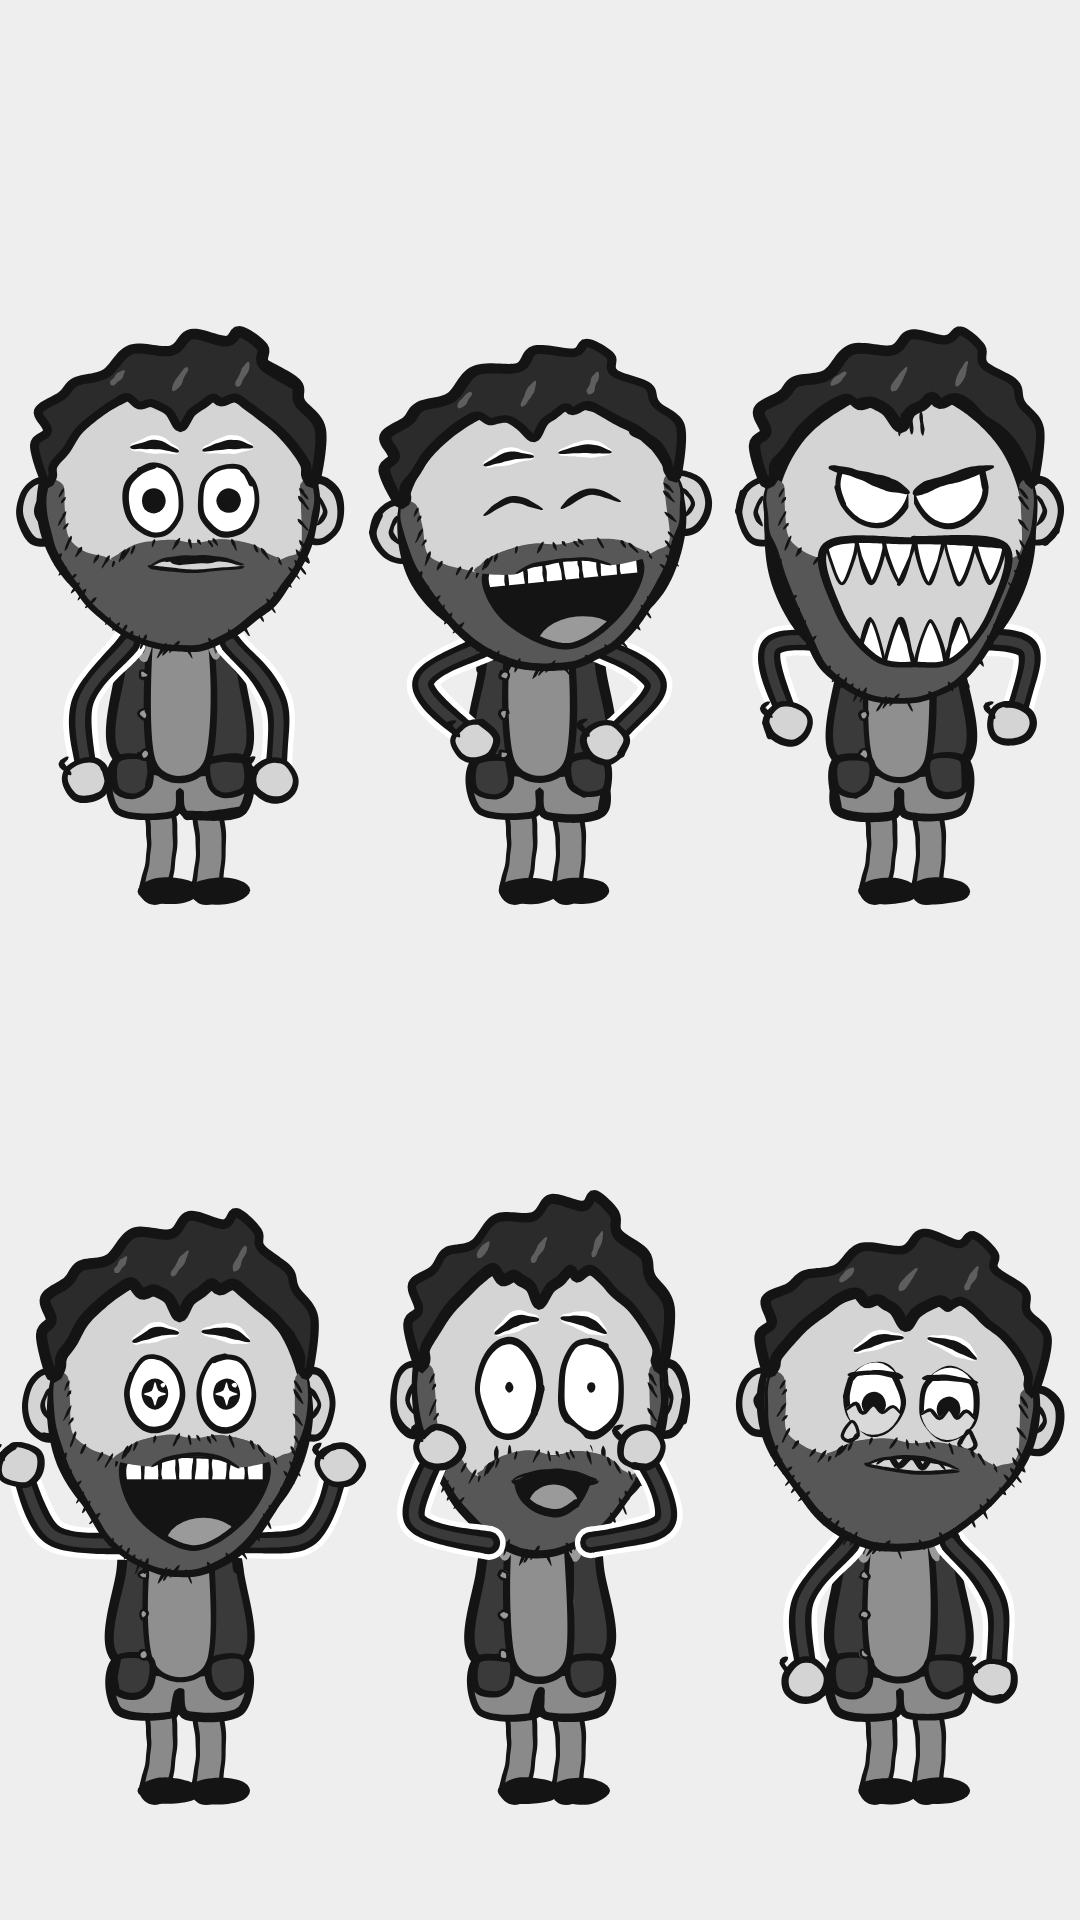
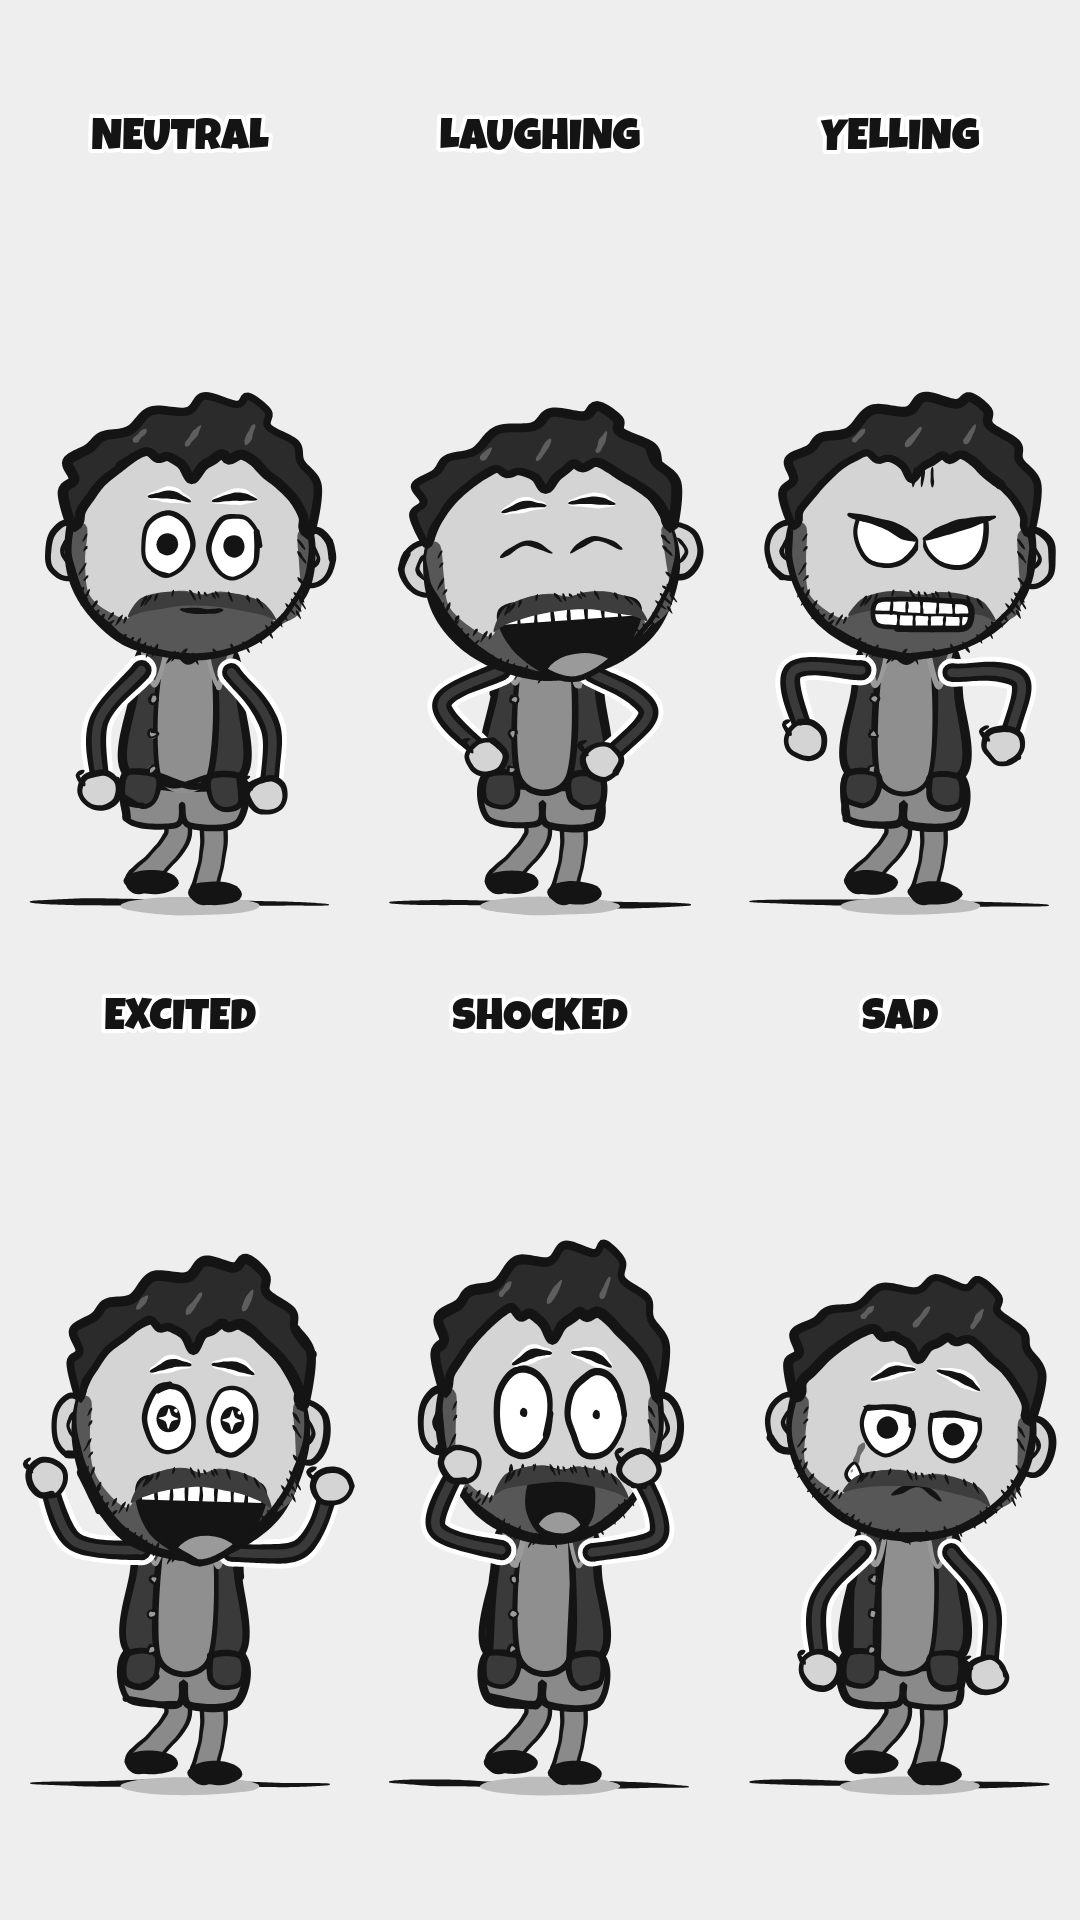
Squeex beard 2: smaller beard, moustache band, new neutral, angry and sad
Beard back on the original chin line with bare cheek under the eyes; a
darker moustache band over the upper lip, joined at the corners; his
mouth sits a little lower under it (head mouthDy, unused by anyone else).
Squeex's own angry (squared clenched teeth, head keeps its shape) and sad
(skin-tone drooping lids, one tear, a frown). Adds ?skit=squeex_beard2.

Claude-Session: https://claude.ai/code/session_01RKmGcx8q1V1rbfKyx6bNrn

diff --git a/web/cameos.js b/web/cameos.js
@@ -51,7 +51,7 @@ const Cameos = (() => {
   }
 
   // ---------- head ----------
-  // o: skin back hair beard browW front(ctx, fx) hat eyeLop
+  // o: skin back hair beard browW front(ctx, fx) hat eyeLop mouthDy (moves the mouth down, e.g. under a moustache)
   function head(o) {
     return (ctx, p) => {
       const fx = p.face ?? 12;
@@ -79,8 +79,9 @@ const Cameos = (() => {
       if (p.squint) {   // rage: the brow is the eye's top edge; add stress lines between the brows
         for (const dx of [-10, 0, 10]) stroke(ctx, [[fx + dx, -106], [fx + dx * 1.2, -80]], { w: 4, taper0: 0.3, taper1: 0.3 });
       } else brows(ctx, fx, -62, p, 1, o.browW ?? 9, true);
-      if (rage) mouth(ctx, fx + 4, 34 + jaw * 0.2, p, 0.95);   // fills the lower half of the face
-      else mouth(ctx, fx + 4, 62 - 18 * open + jaw * 0.5, p, (open ? 0.85 : 1) * (p.mouthScale ?? 1));
+      const mdy = (o.mouthDy ?? 0) * (1 - open);   // eases off as a yell opens, so a big mouth stays inside the chin
+      if (rage) mouth(ctx, fx + 4, 34 + mdy + jaw * 0.2, p, 0.95);   // fills the lower half of the face
+      else mouth(ctx, fx + 4, 62 + mdy - 18 * open + jaw * 0.5, p, (open ? 0.85 : 1) * (p.mouthScale ?? 1));
       o.front?.(ctx, fx, rage, p);
       o.hat?.(ctx);
       if (p.sweat) { sweat(ctx, -126, -30); sweat(ctx, 150, -60, 0.8); }
@@ -1314,23 +1315,30 @@ const Cameos = (() => {
   // moustache corners, the moustache on the upper lip, a rounded full chin.
   // Ink only at the edges (short strokes along the cheek line and the bottom),
   // a flat fill inside. It stretches with the jaw; the mouth cuts into it.
-  const FULLB = '#575757';
-  // on a shocked gape the eyes are huge, so the moustache and lip sit a little lower
-  const fullDrop = p => p?.mouth === 'gape' ? 20 * (p.open ?? 0) / RY : 0;
+  const FULLB = '#575757', STACHE = '#3d3d3d';
+  // mouths the moustache goes under rather than over: his wide grin should show whole
+  const STACHE_UNDER = new Set(['grinwide']);
+  const drawStache = (ctx, P, { stacheTop, lip }) => {
+    fill(ctx, P([...stacheTop, ...lip]), STACHE, 1);   // set apart from the beard by tone; the mouth itself is the lip line
+    hairEdge(ctx, P(stacheTop.slice(1, -1)), 780, { len: 11 });
+  };
+  // on a shocked gape the eyes are huge, so the moustache sits a little lower
+  const FULL_MOUTH_DY = 14;   // his mouth sits a little lower, under the moustache, leaving bare cheek under the eyes
+  const fullDrop = () => 0.12;
   const fullParts = d => {
     const outer = [];
-    for (let i = 0; i <= 24; i++) {   // jaw edge, from the top of one sideburn to the other, round and a little fuller at the chin
-      const a = Math.PI * (-0.07 + 1.14 * i / 24), dn = Math.max(0, Math.sin(a));
-      outer.push([Math.cos(a) * 0.99, Math.sin(a) * 0.99 + 0.2 * dn * dn * dn]);
+    for (let i = 0; i <= 24; i++) {   // jaw edge on the head outline, from the top of one sideburn to the other
+      const a = Math.PI * (-0.07 + 1.14 * i / 24);
+      outer.push([Math.cos(a) * 0.99, Math.sin(a) * 0.99]);
     }
-    // cheek lines: down the sideburn in front of the ear, then a clean slope to the moustache corner
-    const cheekL = [[-0.86, -0.18], [-0.84, 0.02], [-0.82, 0.26], [-0.7, 0.38], [-0.56, 0.43 + d], [-0.46, 0.46 + d]];
-    const stache = [[-0.44, 0.4], [-0.3, 0.32], [-0.08, 0.28], [0.11, 0.31], [0.3, 0.28], [0.52, 0.32], [0.64, 0.4]].map(([x, y]) => [x, y + d]);
-    const cheekR = [[0.68, 0.46 + d], [0.78, 0.43 + d], [0.88, 0.36], [0.88, 0.02], [0.88, -0.18]];
-    // the upper lip line, and the lower lip showing under it (the mouth draws over both)
-    const lipTop = [[-0.22, 0.5], [-0.1, 0.45], [0.11, 0.43], [0.32, 0.45], [0.46, 0.5]].map(([x, y]) => [x, y + d]);   // rounded corners
-    const lip = [...lipTop, ...[[0.3, 0.53], [0.11, 0.55], [-0.08, 0.53]].map(([x, y]) => [x, y + d])];
-    return { outer, cheekL, stache, cheekR, lipTop, lip };
+    // cheek lines: down the sideburn in front of the ear, then low across the cheek
+    // to the moustache corner, leaving bare cheek under the eyes
+    const cheekL = [[-0.86, -0.18], [-0.86, 0.12], [-0.84, 0.4], [-0.74, 0.54], [-0.58, 0.53 + d], [-0.5, 0.54 + d]];
+    const cheekR = [[0.72, 0.54 + d], [0.8, 0.53 + d], [0.92, 0.52], [0.9, 0.12], [0.88, -0.18]];
+    // the moustache band: hair-edged top, arched lip edge, ends tucked into the beard at the corners
+    const stacheTop = [[-0.5, 0.52], [-0.4, 0.36], [-0.22, 0.29], [-0.04, 0.27], [0.11, 0.3], [0.26, 0.27], [0.44, 0.29], [0.62, 0.36], [0.72, 0.52]].map(([x, y]) => [x, y + d]);
+    const lip = [[0.62, 0.48], [0.46, 0.44], [0.28, 0.41], [0.11, 0.4], [-0.06, 0.41], [-0.24, 0.44], [-0.4, 0.48]].map(([x, y]) => [x, y + d]);
+    return { outer, cheekL, cheekR, stacheTop, lip };
   };
   // the lower the point, the further it drops with the jaw
   const fullStretch = jaw => pts => hu(pts).map(([x, y]) => [x, y + jaw * Math.min(1, Math.max(0, (y / RY - 0.4) / 0.6))]);
@@ -1349,44 +1357,82 @@ const Cameos = (() => {
   };
   const beardFull2 = (ctx, jaw = 0, p) => {
     ctx.translate(0, -jaw);   // stretch with the jaw instead of sliding down with it
-    const P = fullStretch(jaw), { outer, cheekL, stache, cheekR, lip } = fullParts(fullDrop(p));
-    fill(ctx, P([...outer, ...cheekL, ...stache, ...cheekR]), FULLB, 1);
-    const L = P(lip);
-    fill(ctx, L, SQ_SKIN, 0.6);
-    outline(ctx, L, { w: 4, jit: 0.4 });
-    const O = P(outer);
-    stroke(ctx, O, { w: 8, taper0: 0.3, taper1: 0.3 });   // the jaw edge
+    const P = fullStretch(jaw), { outer, cheekL, cheekR, stacheTop } = fullParts(fullDrop(p));
+    fill(ctx, P([...outer, ...cheekL, ...stacheTop.slice(1, -1), ...cheekR]), FULLB, 1);
+    if (STACHE_UNDER.has(p?.mouth)) drawStache(ctx, P, fullParts(fullDrop(p)));   // under a wide grin, so the whole grin shows
+    stroke(ctx, P(outer), { w: 8, taper0: 0.3, taper1: 0.3 });   // the jaw edge
     hairEdge(ctx, P(cheekL), 700);
     hairEdge(ctx, P([...cheekR].reverse()), 740);
     hairEdge(ctx, P(outer.slice(4, 21)), 820, { len: 13, out: 6 });   // across the jaw edge, all along the bottom
   };
-  // The moustache again on top of the mouth, so an open mouth opens downward from
-  // under it instead of eating it. Same fill, so it merges with the beard; ink on
-  // the lip edge and hair strokes along the top. Rage's huge mouth gets none.
+  // The moustache, on top of the mouth: a darker band over the upper lip whose
+  // ends join the beard at the mouth corners, so mouths open beneath it.
   const stacheFull2 = (ctx, fx, rage, p) => {
-    if (rage) return;
+    if (p?.sadTear) { sadLids(ctx, fx, p.lid ?? 0); tearStreak(ctx, fx); }
+    if (rage || STACHE_UNDER.has(p?.mouth)) return;
     const jaw = p?.mouth === 'yell' ? 46 * (p.open ?? 0) : 0, P = fullStretch(jaw);
-    const { stache, lipTop } = fullParts(fullDrop(p));
+    const { stacheTop, lip } = fullParts(fullDrop(p));
     if (p?.mouth === 'gape') {   // the gape starts high; hide what rises above the moustache (only inside the mouth, so the eyes are untouched)
-      const o = p.open ?? 0, sc = p.mouthScale ?? 1, w2 = (22 + 14 * o) * sc, h = (26 + 44 * o) * sc, cx = fx + 4, cy = 62 + h * 0.18;
+      const o = p.open ?? 0, sc = p.mouthScale ?? 1, w2 = (22 + 14 * o) * sc, h = (26 + 44 * o) * sc, cx = fx + 4, cy = 62 + FULL_MOUTH_DY + h * 0.18;
       ctx.save();
       ctx.beginPath(); ctx.ellipse(cx, cy, w2 + 6, h * 0.52 + 6, 0, 0, 7); ctx.clip();
-      const top = P(stache);
+      const top = P(stacheTop);
       fill(ctx, [[top[0][0], -RY], [top[top.length - 1][0], -RY], ...[...top].reverse()], SQ_SKIN, 0);
       ctx.restore();
     }
-    const sh = [[-0.5, 0.46 + fullDrop(p)], ...stache, [0.72, 0.46 + fullDrop(p)], ...[...lipTop].reverse()];
-    fill(ctx, P(sh), FULLB, 1);
-    stroke(ctx, P(lipTop), { w: 5, taper0: 0.3, taper1: 0.3 });
-    hairEdge(ctx, P(stache), 780, { len: 11 });
+    drawStache(ctx, P, { stacheTop, lip });
+    if (p?.clenchTeeth) clenchedTeeth(ctx, fx + 4, 62 + FULL_MOUTH_DY + 6);   // in front, so both rows show under the moustache
+  };
+  // one tear: a thin streak from the outer corner of the screen-left eye, ending in a drop on the bare cheek
+  const tearStreak = (ctx, fx) => {
+    const x = fx - 40 - 30;   // the eye's outer edge (eyes sit 40 either side of the face line, 30 wide)
+    stroke(ctx, [[x + 4, 22], [x - 2, 40], [x - 4, 54]], { w: 7, color: '#6a6a6a', taper0: 0.2, taper1: 0.2 });
+    const d = [[x - 4, 50], [x + 5, 64], [x - 4, 73], [x - 13, 64]];
+    fill(ctx, d, W, 0.3); outline(ctx, d, { w: 4 });
+    stroke(ctx, [[x - 8, 62], [x - 6, 58]], { w: 3, color: '#9a9a9a' });   // a glint, so it reads as water
+  };
+  // drooping upper lids in his skin tone (the shared lid fill is white, which shows on grey skin)
+  const sadLids = (ctx, fx, lid) => {
+    const y = -6, rx = 30, ry = 40, ly = y - ry + lid * ry * 1.2;
+    for (const side of [-1, 1]) {
+      const ex = fx + side * 40;
+      // skin over the whole top of the eye, outline included, so the lid line becomes the eye's top edge
+      ctx.save(); ctx.beginPath(); ctx.ellipse(ex, y, rx + 6, ry + 6, 0, 0, 7); ctx.clip();
+      ctx.fillStyle = SQ_SKIN; ctx.fillRect(ex - rx - 8, y - ry - 8, rx * 2 + 16, ly - (y - ry) + 8);
+      ctx.restore();
+      const hw = rx * Math.sqrt(Math.max(0, 1 - ((ly - y) / ry) ** 2));   // eye half-width at the lid
+      stroke(ctx, [[ex - hw - 2, ly + 3], [ex, ly - 2], [ex + hw + 2, ly + 3]], { w: 8, taper0: 0.05, taper1: 0.05 });
+    }
+  };
+  // angry: two rows of squared teeth clenched together, the same flat-tooth style as his laugh
+  const clenchedTeeth = (ctx, x, y) => {
+    const w2 = 56, h = 18;
+    const box = [[x - w2, y - h + 4], [x - w2 * 0.5, y - h], [x + w2 * 0.5, y - h], [x + w2, y - h + 4],
+                 [x + w2, y + h - 4], [x + w2 * 0.5, y + h], [x - w2 * 0.5, y + h], [x - w2, y + h - 4]];
+    fill(ctx, box, W, 0.3);
+    for (let i = 1; i < 6; i++) {
+      const tx = x - w2 + i * w2 / 3;
+      stroke(ctx, [[tx, y - h + 1], [tx, y - 1]], { w: 3.5, taper0: 0, taper1: 0, minW: 1 });
+      stroke(ctx, [[tx + w2 / 6, y + 1], [tx + w2 / 6, y + h - 1]], { w: 3.5, taper0: 0, taper1: 0, minW: 1 });
+    }
+    stroke(ctx, [[x - w2, y], [x + w2, y]], { w: 4, taper0: 0, taper1: 0, minW: 1 });   // where the rows meet
+    outline(ctx, box, { w: 7 });
+  };
+  // Squeex's own takes on two of the shared emotions, so the face stays his:
+  // the rage yell becomes big squared teeth clenched inside the beard (the head
+  // keeps its shape), and sad gets plain drooping eyes, one tear and a frown.
+  const sqFace = p => {
+    if (p.mouth === 'rage') return { ...p, mouth: 'none', open: 0, clenchTeeth: true };
+    if (p.tears) return { ...p, tears: false, lid: 0.45, mouth: 'frown', sadTear: true };
+    return p;
   };
 
   // C, with any beard and moustache: everything else is the chosen draft C
-  const sqC = (beard, stache) => build({ skin: SQ_SKIN, shirt: '#3a3a3a', sleeve: '#3a3a3a', headScale: [1.04, 0.98],
+  const sqC = (beard, stache, headOpts = {}) => build({ skin: SQ_SKIN, shirt: '#3a3a3a', sleeve: '#3a3a3a', headScale: [1.04, 0.98],
     body: { legColor: '#8a8a8a',   // khakis, a mid grey so they don't read as bare legs, waist to ankle
       bottoms: (ctx, hipY) => { const b = [[-64, hipY - 12], [64, hipY - 12], [70, hipY + 50], [8, hipY + 56], [0, hipY + 30], [-8, hipY + 56], [-70, hipY + 50]];
         fill(ctx, b, '#8a8a8a', 1.2); outline(ctx, b, { w: 9 }); } },
-    head: head({ skin: SQ_SKIN, back: sqEars, hair: sqHair(SQ_UP), beard, front: stache, browW: 9 }),
+    head: head({ skin: SQ_SKIN, back: sqEars, hair: sqHair(SQ_UP), beard, front: stache, browW: 9, ...headOpts }),
     detail: overshirt });
 
   const squeex = {
@@ -1397,7 +1443,7 @@ const Cameos = (() => {
       head: head({ skin: SQ_SKIN, hair: sqHair(SQ_TUFT), beard: sqBeard(), front: sqStache, hat: headphones, browW: 9 }),
       detail: boxrTee }),
     overshirt: sqC(sqBeard({ full: 0.12, flecks: true }), sqStache),
-    beards: { trimmed: sqC(beardTrim, stacheTrim), full: sqC(beardFull2, stacheFull2), fullOld: sqC(beardFull, stacheFull), inked: sqC(beardInked, stacheInked) },
+    beards: { trimmed: sqC(beardTrim, stacheTrim), full: (draw => (ctx, p) => draw(ctx, sqFace(p)))(sqC(beardFull2, stacheFull2, { mouthDy: FULL_MOUTH_DY })), fullOld: sqC(beardFull, stacheFull), inked: sqC(beardInked, stacheInked) },
   };
 
   return { squeex, speed, ludwig, beast, nick: nickMidPart, nickOld: nickBack.same, slime, originals, originals2, men, spikyShades, spikyAccents, nickAlts, nickFlow, nickOutline, nickBack, nickMidPart, nickMidLayered, props: { cash, bigCheck }, parts: { build, head, hh, RX, RY } };

diff --git a/web/skits/squeex_beard2.js b/web/skits/squeex_beard2.js
@@ -1,0 +1,32 @@
+// Squeex C with beard 2 (full dark) in six expressions, then close-ups:
+// second 0 the grid (neutral, laughing, yelling / excited, shocked, sad),
+// second 1 neutral, second 2 grinning, second 3 sad. Not used in any video.
+Skits.squeex_beard2 = (() => {
+  const F = Cameos.squeex.beards.full, E = Emotions;
+  const grin = { mouth: 'grinwide', mouthScale: 1.1, lid: 1, happy: true, brow: 0.1 };
+  const pose = { weight: 0.8, lean: 0.03 };
+  const ground = (ctx, x0, x1, y) => Brush.stroke(ctx, [[x0, y], [x1, y + 3]], { w: 6 });
+  const shadow = (ctx, x, rx, y) => Brush.fill(ctx, Brush.ellipsePts(x, y, rx, rx * 0.13, 14), '#bcbcbc', 0.5);
+  const GRID = [['NEUTRAL', E.neutral], ['LAUGHING', E.laughing], ['YELLING', E.yelling], ['EXCITED', E.excited], ['SHOCKED', E.shocked], ['SAD', E.sad]];
+  const CLOSE = [['NEUTRAL', { ...E.neutral, lookX: 0.3 }], ['GRIN', grin], ['SAD', E.sad]];
+  return {
+    title: '', subtitle: '', duration: 4,
+    draw(ctx, t) {
+      ctx.fillStyle = '#eeeeee'; ctx.fillRect(0, 0, 1080, 1920);
+      const i = Math.floor(t);
+      if (i === 0) {
+        GRID.forEach(([name, e], k) => {
+          const x = 180 + (k % 3) * 360, y = k < 3 ? 900 : 1780;
+          Stage.text(ctx, name, x, y - 760, 44, 'Luckiest Guy', Brush.INK, 8);
+          ground(ctx, x - 150, x + 150, y + 2); shadow(ctx, x + 10, 70, y + 6);
+          F(ctx, { t, x, y, s: 0.8, ...pose, ...e });
+        });
+        return;
+      }
+      const [name, e] = CLOSE[Math.min(2, i - 1)];
+      Stage.text(ctx, `SQUEEX: ${name}`, 540, 150, 72, 'Luckiest Guy', '#e3261b', 12);
+      ground(ctx, 0, 1080, 1712); shadow(ctx, 540, 230, 1720);
+      F(ctx, { t, x: 520, y: 1720, s: 2.3, ...pose, tilt: -0.04, ...e });
+    },
+  };
+})();

diff --git a/web/index.html b/web/index.html
@@ -52,6 +52,7 @@
 <script src="skits/nick_hair_trial.js"></script>
 <script src="skits/squeex_drafts.js"></script>
 <script src="skits/squeex_beards.js"></script>
+<script src="skits/squeex_beard2.js"></script>
 <script src="skits/extinct.js"></script>
 <script src="skits/powernap.js"></script>
 <script src="skits/morningself.js"></script>
